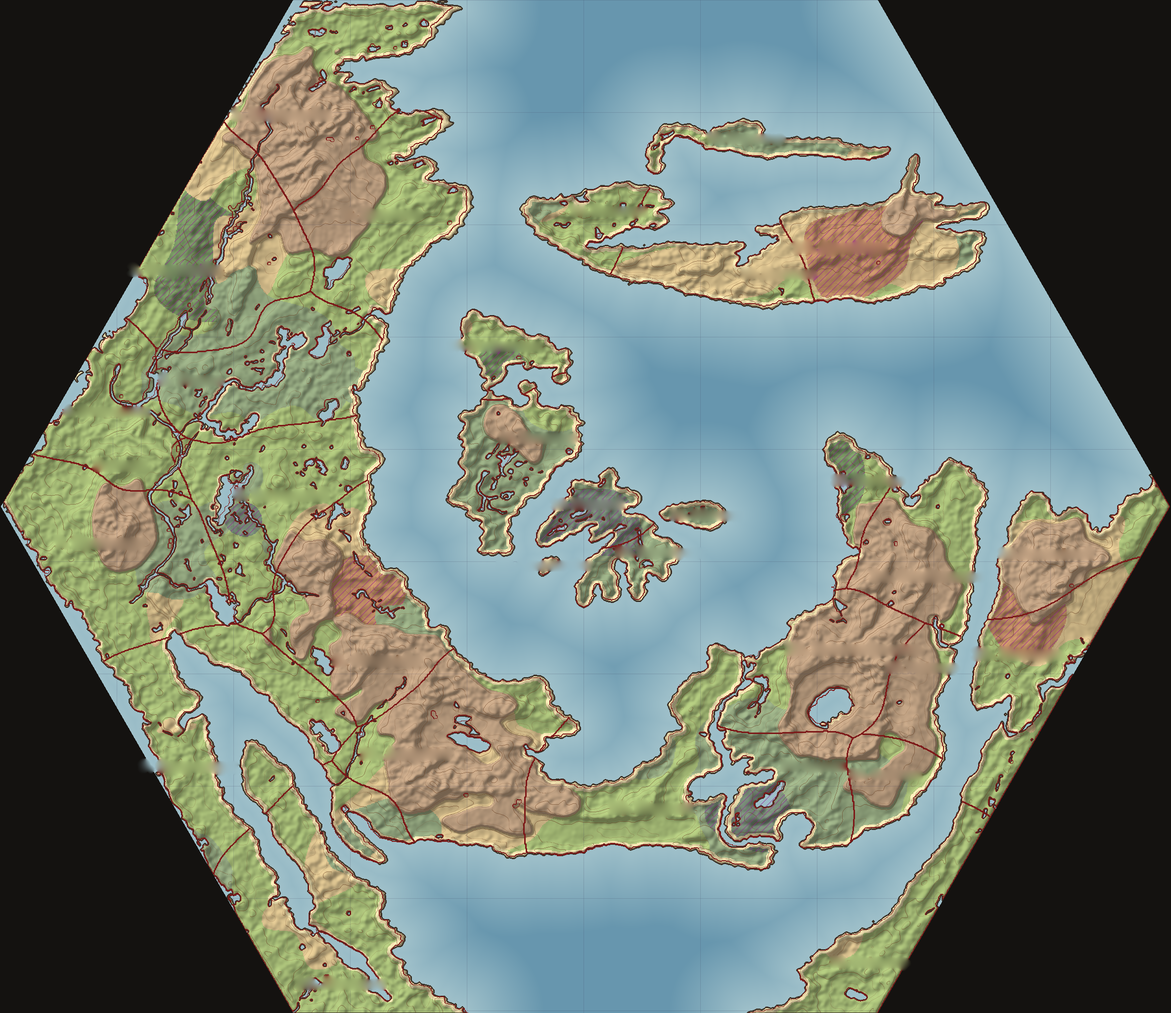
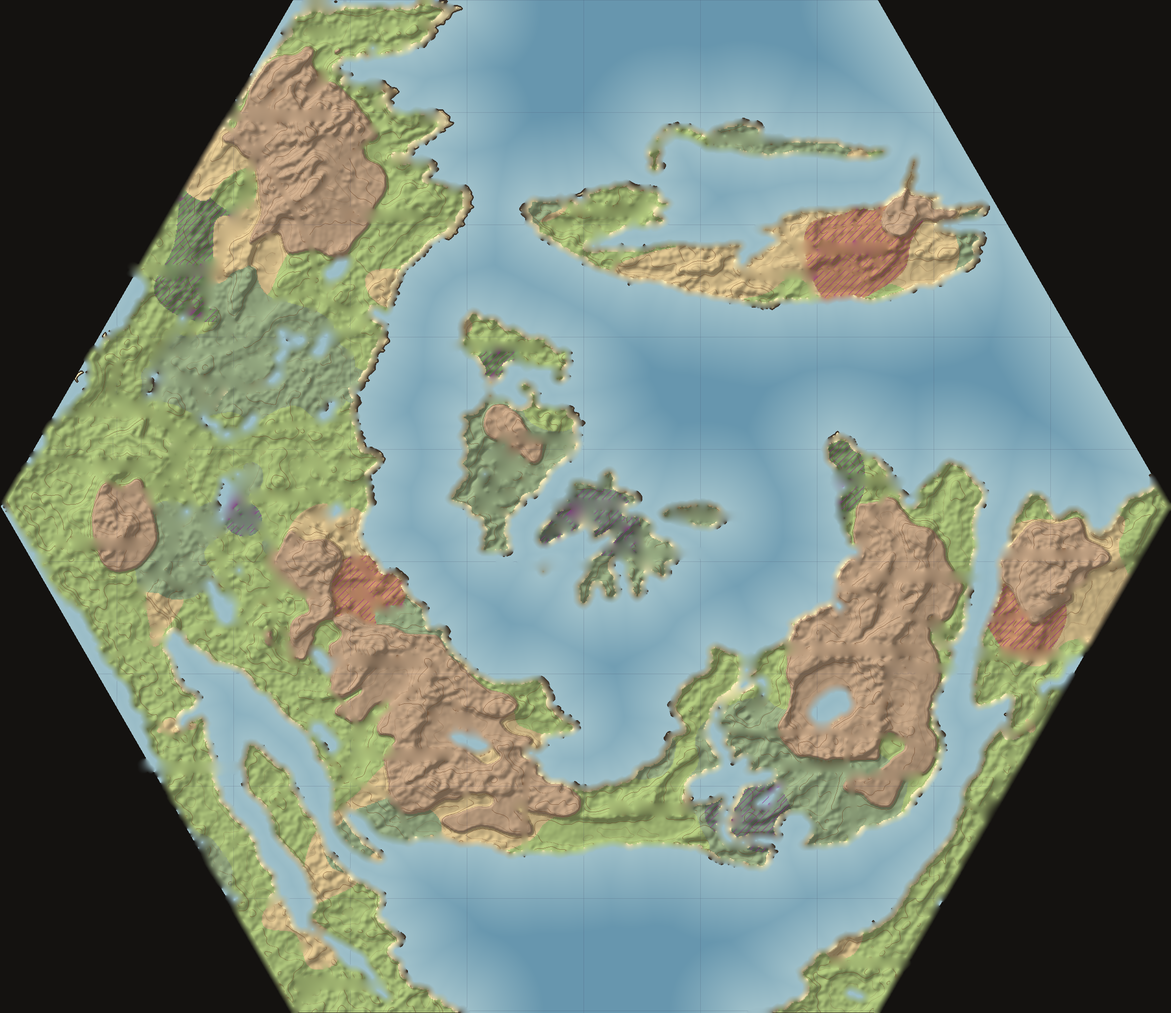
Огляд регіону: жирні лінії берега й озер прибрано, лишено лише межі регіонів
Claude-Session: https://claude.ai/code/session_01JTZd7Umm4ThLAwC5cB1sHx

diff --git a/game/tools/make_topo_clean.py b/game/tools/make_topo_clean.py
@@ -21,8 +21,9 @@ def near(color, tol):
 
 
 mask = near((240, 224, 192), 8) | near((250, 240, 215), 6) | near((40, 16, 8), 10) | near((36, 23, 13), 9)          # ореол і літери
+lines = near((125, 25, 25), 28) | ((img[..., 0] > 85) & (img[..., 0] - img[..., 1] > 50) & (img[..., 0] - img[..., 2] > 50) & (img[..., 1] < 90))                                 # запечені жирні бордові лінії (берег, озера, межі): лишається лише межа регіону з шейдера
 dot = near((250, 190, 40), 40)                                   # жовта точка міста
-mask |= dot
+mask |= dot | lines
 # розширення маски (AA-краї літер, чорне кільце точки)
 def dilate(m, n):
     out = m.copy()
@@ -31,7 +32,7 @@ def dilate(m, n):
         out = out | p[:-2, 1:-1] | p[2:, 1:-1] | p[1:-1, :-2] | p[1:-1, 2:]
     return out
 ring = dilate(dot, 5) & near((16, 16, 16), 40)
-mask = dilate(mask, 3) | ring
+mask = dilate(mask, 3) | ring | dilate(lines, 6)
 # Заповнення: спершу фронтом від відомих пікселів, потім релаксація Лапласа (гладко, без смуг)
 work = img.astype(np.float32)
 known = ~mask
